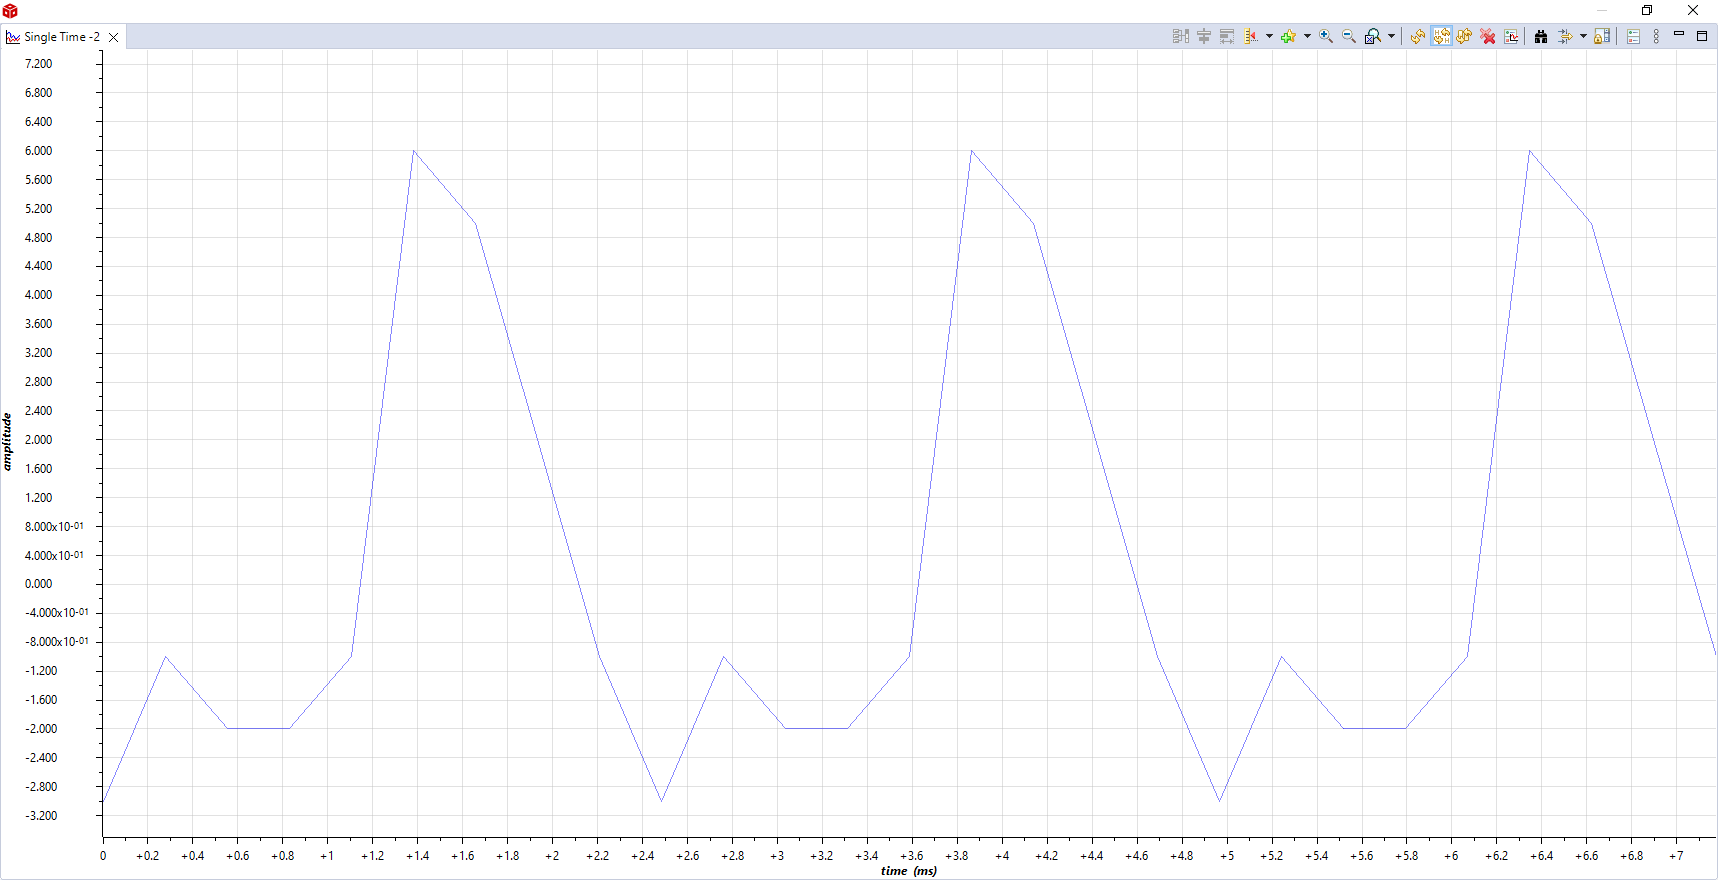
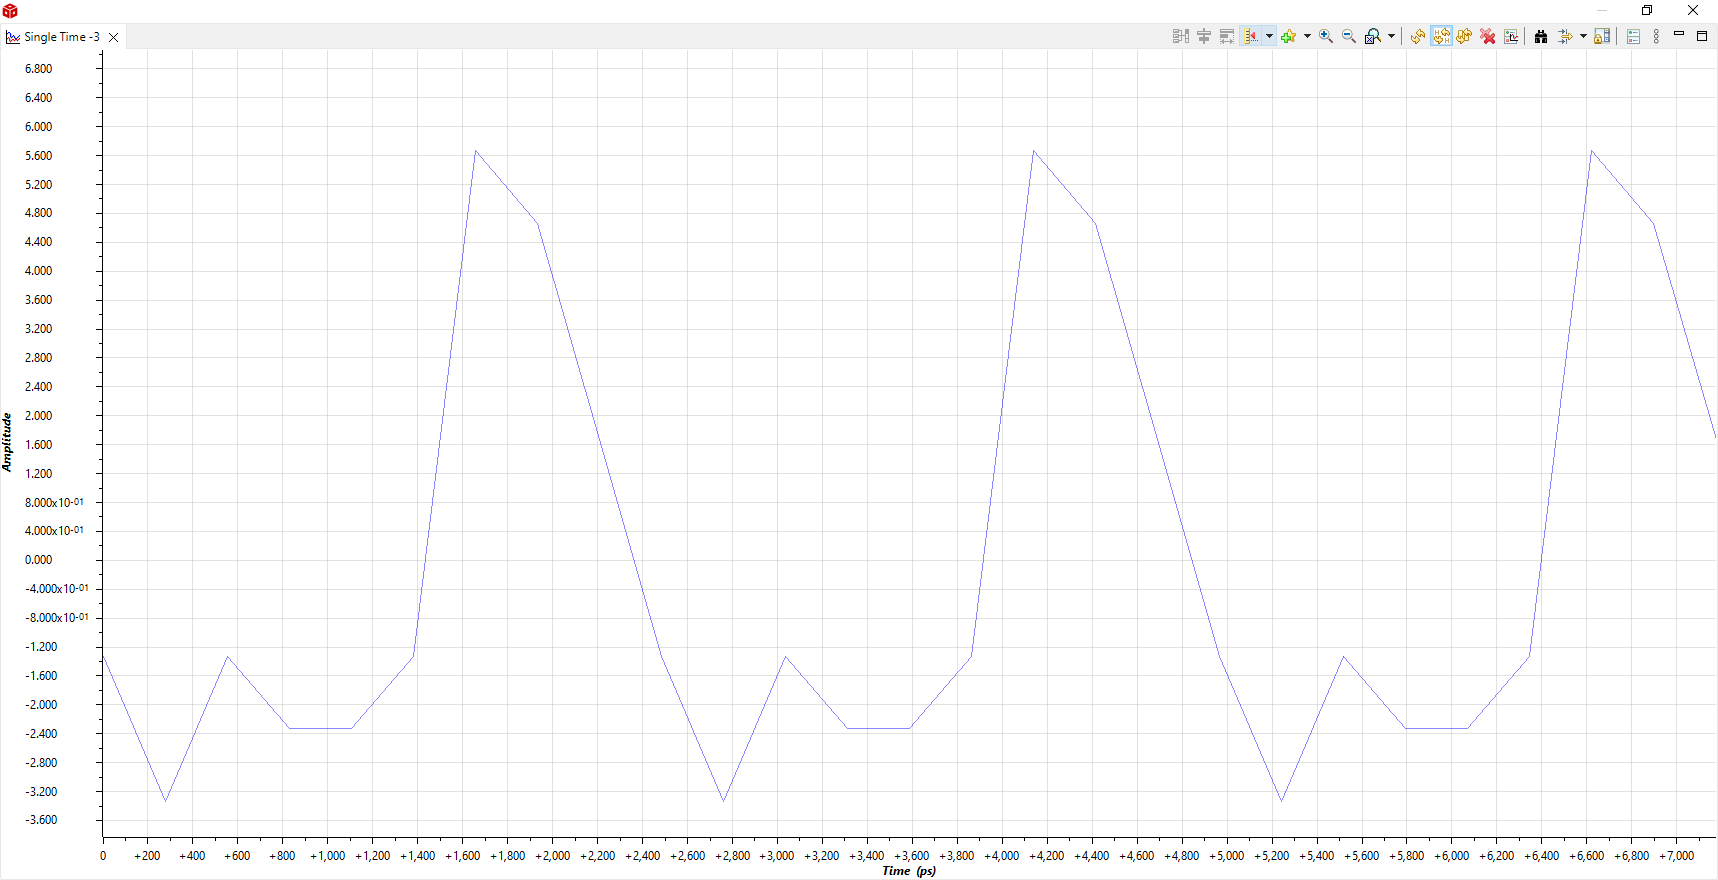
working convolution code, updated figures with correct zero mean signal

diff --git a/assignment_1_ccs/main.c b/assignment_1_ccs/main.c
@@ -4,10 +4,11 @@
 
 #define SIG_LEN 900
 #define SIG_PERIOD 9
+#define EX_LEN 4
 /**
  * main.c
  */
-void conv(float *x, float *y, float *h, int n_coef, int N){
+inline void conv(float *x, float *y, float *h, int n_coef, int N){
   float buffer[N_HD_1] = {0};
   int i = 0;
   int j = 0;
@@ -17,8 +18,9 @@ void conv(float *x, float *y, float *h, int n_coef, int N){
   i++;
   do {
     tmp = 0;
+    j = 0;
     do {
-      if ((buff_index-j) < 0){
+      if ((buff_index-j) >= 0){
         tmp += buffer[buff_index-j]*h[j];
       } else {
         tmp += buffer[buff_index+n_coef-j]*h[j];
@@ -53,8 +55,8 @@ int main(void)
     sum_x2 += u_2[i];
     i++;
   } while (i < SIG_PERIOD);
-  mean_x1 = sum_x1 / SIG_PERIOD;
-  mean_x2 = sum_x2 / SIG_PERIOD;
+  mean_x1 = (float)sum_x1 / SIG_PERIOD;
+  mean_x2 = (float)sum_x2 / SIG_PERIOD;
   int test;
   i = 0;
   do {
@@ -66,6 +68,7 @@ int main(void)
   test = 0;
   conv(x1, y1, hd1, N_HD_1, SIG_LEN);
   conv(x2, y2, hd2, N_HD_2, SIG_LEN);
+
 
 	return 0;
 }
